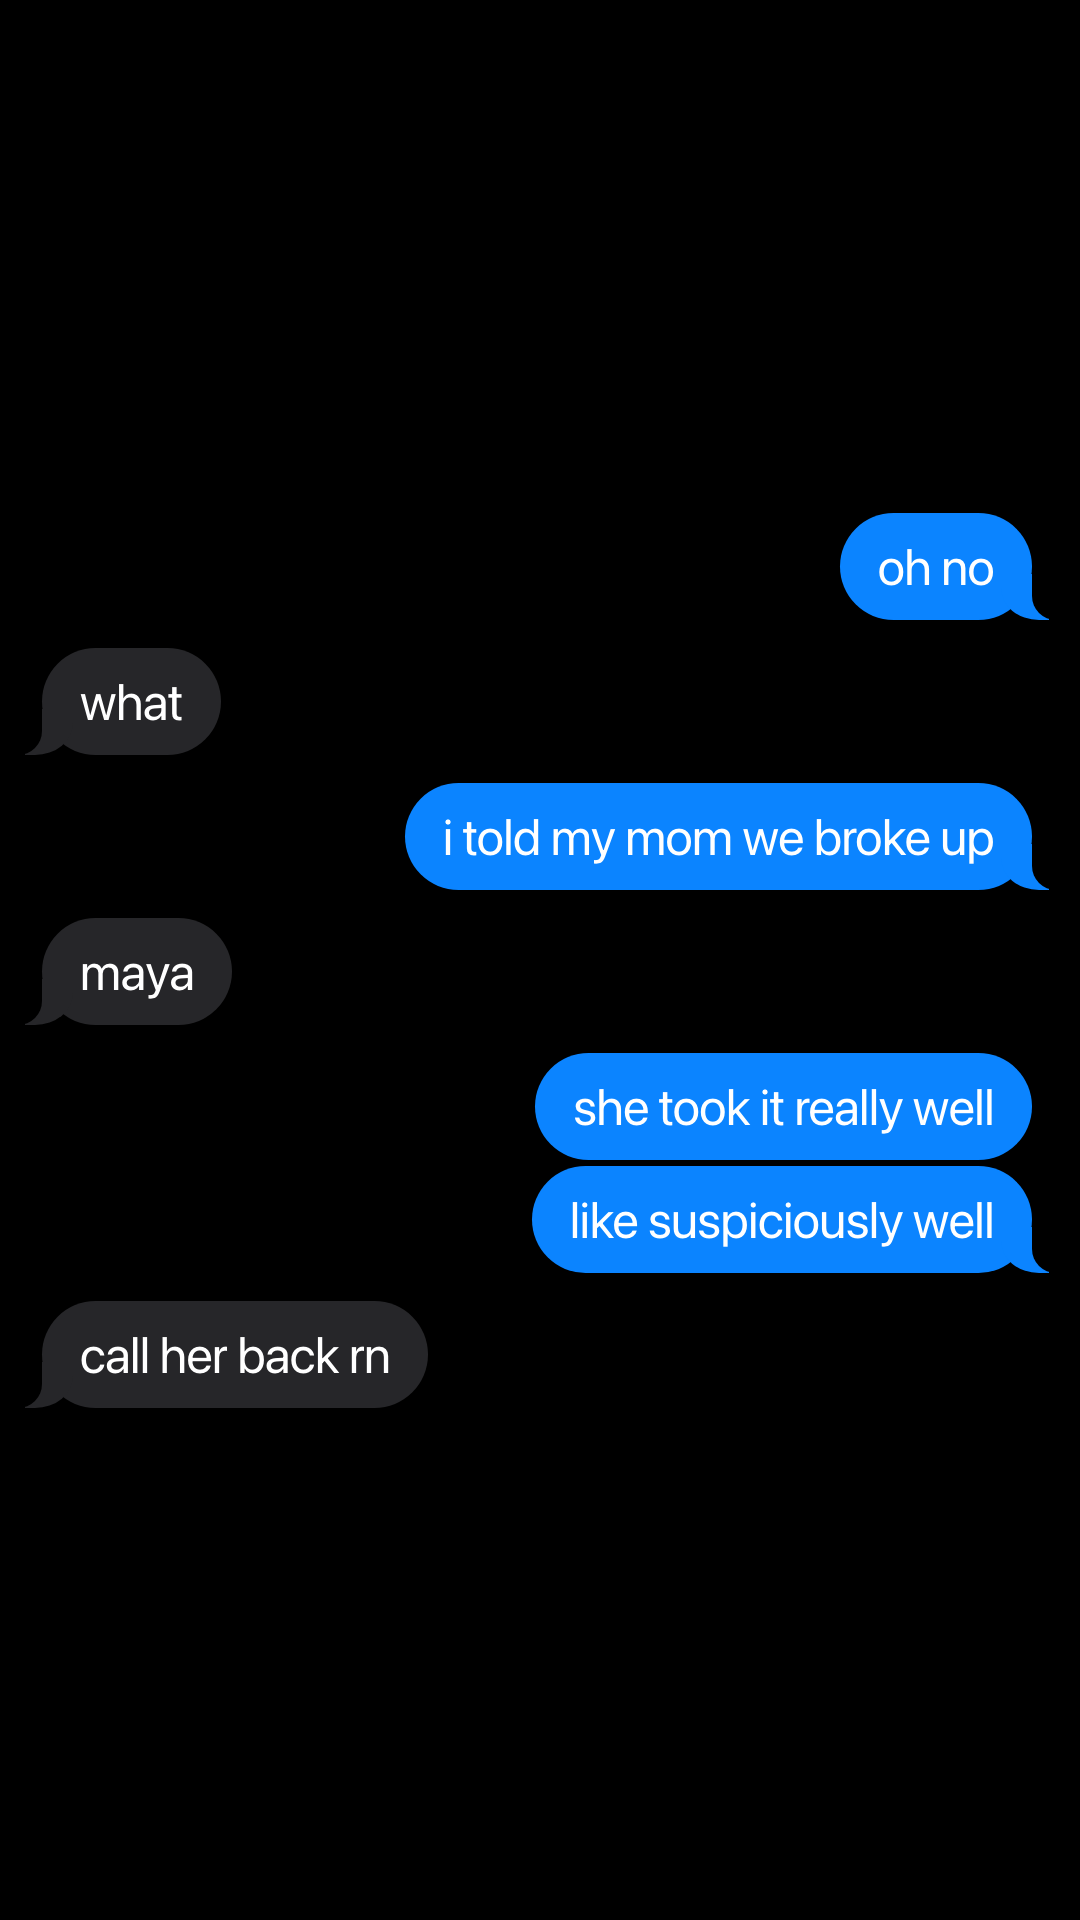
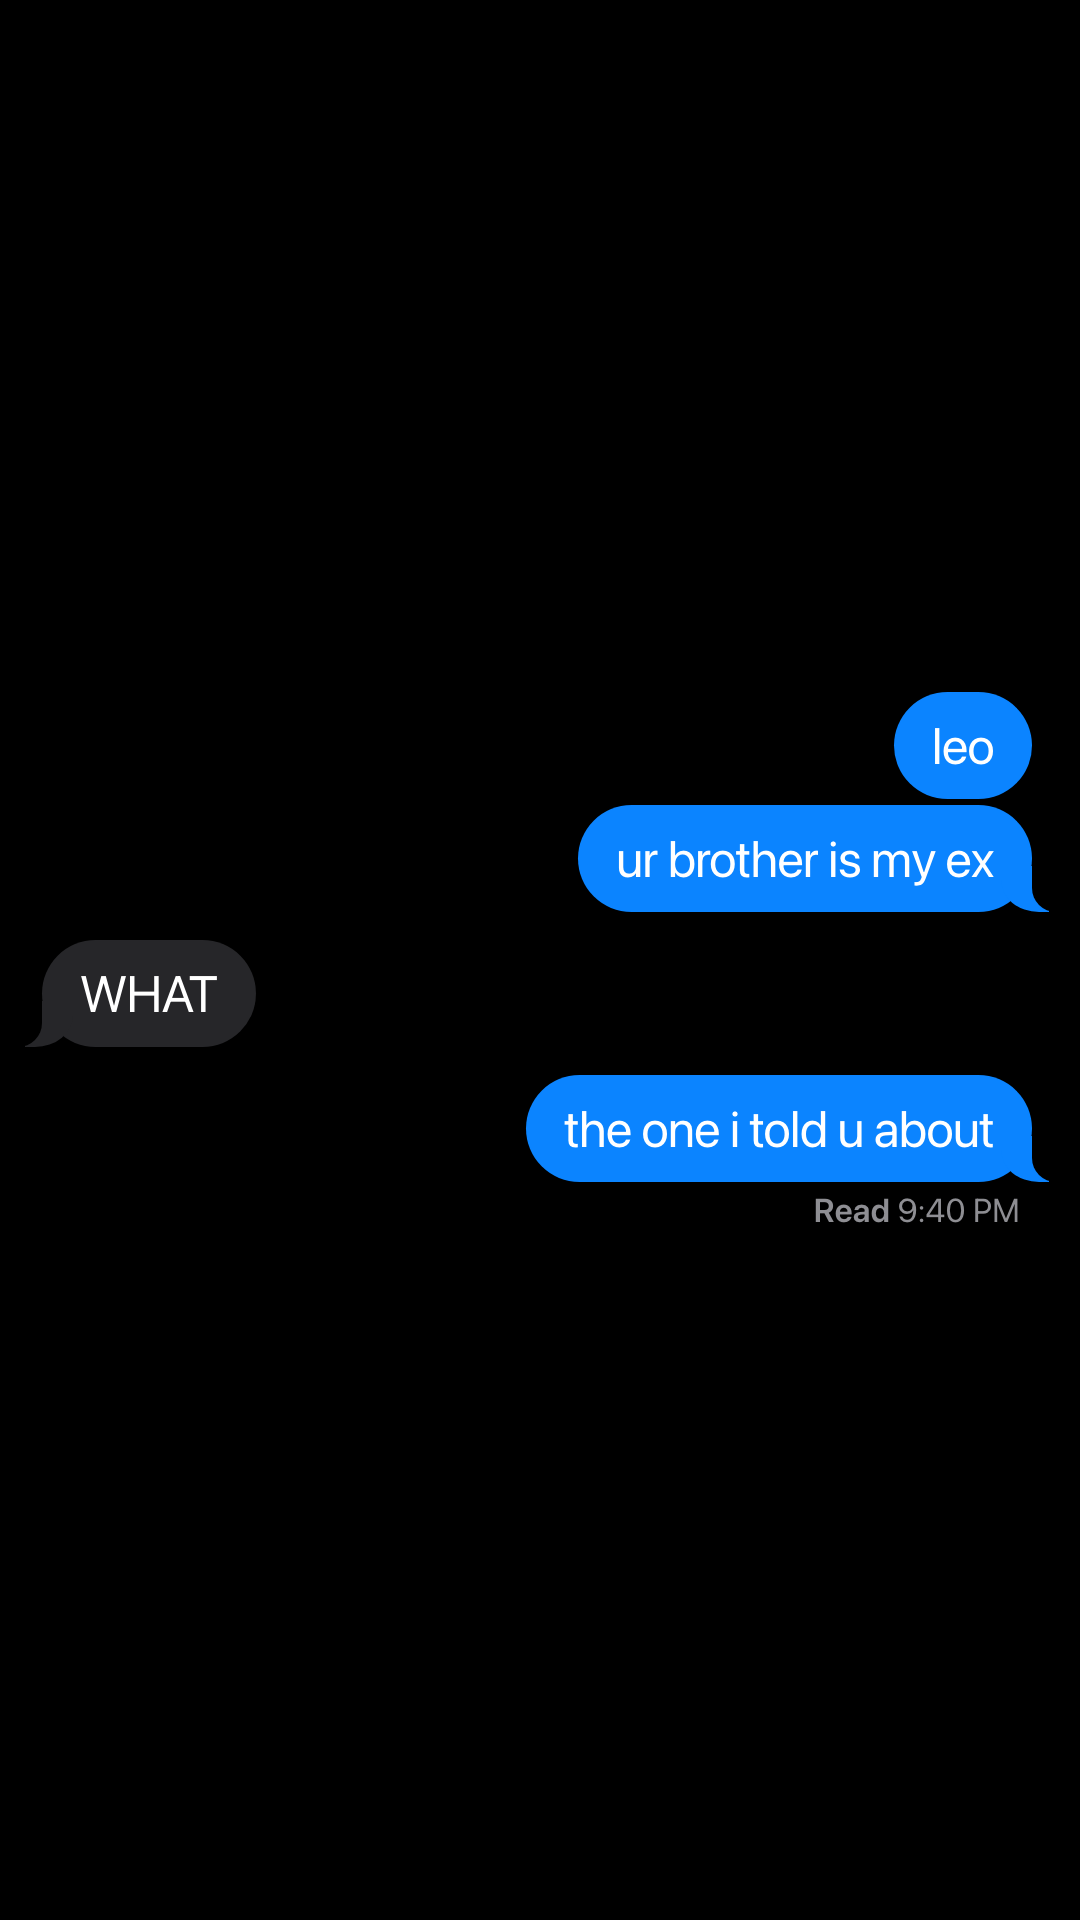
Carousels 631–635: shocking endings for a 19–20 couple

diff --git a/docs/marketing/tiktok-632/SCRIPT.md b/docs/marketing/tiktok-632/SCRIPT.md
@@ -1,34 +1,34 @@
-# 632 · suspiciously well
+# 632 · ur brother is my ex
 
-**For:** rosie first (it suits any account). **Engine:** 149's (1.3M): Maya says the one thing she shouldn't (its top comment was "Why would u even tell him that").
-**Format:** rosie's own: 3 iMessage slides (1080×1920, dark iMessage, no crop, no look), the look of rosie's hits. Post it as a photo carousel: slides 1 and 2, then your gift screenshots, then slide 3, with a trending sound. Maya and Leo, nobody else named. The pink card.
+**For:** rosie first (it suits any account). **Engine:** a reveal that rewrites slide 1, timed for Thanksgiving.
+**Format:** rosie's own: 3 iMessage slides (1080×1920, dark iMessage, no crop, no look), the look of rosie's hits. Post it as a photo carousel: slides 1 and 2, then your gift screenshots, then slide 3, with a trending sound. Maya and Leo (19–20), nobody else named. The pink card.
 **Before posting:** More options → Disclose post content → **Your brand**.
 
 ## The story, slide by slide
 
-1. 8:41 PM. She: "u havent texted me all day" / "like at all". He: "been busy". She: "busy doing what leo" (Read 8:43 PM)
-2. He: "finishing this" / "sorry i went quiet", then the link "for maya 🤍"
-3. She: "oh no". He: "what". She: "i told my mom we broke up". He: "maya". She: "she took it really well" / "like suspiciously well". He: "call her back rn"
+1. 9:14 PM. He: "my mom wants to know if ur coming for thanksgiving". She: "i cant". He: "why not". She: "its complicated" (Read 9:15 PM)
+2. He: "please come" / "i made u this", then the link "for maya 🤍"
+3. She: "leo" / "ur brother is my ex". He: "WHAT". She: "the one i told u about" (Read 9:40 PM)
 
 **Real:** the chat never says what's inside the gift.
 
-## Why it should go
+## Why people will comment
 
-Slide 1 is the fear (he went quiet all day). The twist is Maya's own overreaction, and the detail everyone calls out is the mum who took it "suspiciously well". Two camps: Maya's crazy, and the mum knows something.
+"its complicated" is the hook. "ur brother is my ex" is the shock, and "the one i told u about" makes it worse. The comments write the dinner themselves ("thanksgiving is gonna be CRAZY"). Post it in the weeks before Thanksgiving (26 Nov).
 
 ## Caption (written as a search)
 
-told my mom we broke up… she took it a little too well 😭
+first thanksgiving with my boyfriend… his brother is my ex 😭
 
-#targetaudience #funny #boyfriendtexts #relatable
+#targetaudience #thanksgiving #boyfriendtexts #relationships
 
-**Why this wording:** "told my mom about him" and "we broke up" are TikTok search suggestions (checked 24 Oct).
+**Why this wording:** "first thanksgiving with your boyfriend", "spending thanksgiving with my boyfriend" and "my boyfriends brother" are TikTok search suggestions (checked 24 Oct).
 
 Never the website in the caption, and no 💅.
 
 ## Pinned comment (in character, never a brand)
 
-my mom still hasnt called back
+thanksgiving is in 4 weeks help
 
 ## In the first hour
 

diff --git a/docs/marketing/tiktok-634/SCRIPT.md b/docs/marketing/tiktok-634/SCRIPT.md
@@ -1,34 +1,34 @@
-# 634 · send it to gym bro
+# 634 · she said ur a bad kisser
 
-**For:** rosie first (it suits any account). **Engine:** 192's (279K): this time he's the villain, and the gift is his cover.
-**Format:** rosie's own: 3 iMessage slides (1080×1920, dark iMessage, no crop, no look), the look of rosie's hits. Post it as a photo carousel: slides 1 and 2, then your gift screenshots, then slide 3, with a trending sound. Maya and Leo, nobody else named. The pink card.
+**For:** rosie first (it suits any account). **Engine:** 192's (279K): he's the villain, and it's her best friend.
+**Format:** rosie's own: 3 iMessage slides (1080×1920, dark iMessage, no crop, no look), the look of rosie's hits. Post it as a photo carousel: slides 1 and 2, then your gift screenshots, then slide 3, with a trending sound. Maya and Leo (19–20), nobody else named. The pink card.
 **Before posting:** More options → Disclose post content → **Your brand**.
 
 ## The story, slide by slide
 
-1. 1:07 AM. She: "who is “gym bro”". He: "my gym bro??". She: "why does gym bro call u baby" (Read 1:08 AM)
-2. He: "its not what it looks like" / "i was gonna give u this friday", then the link "for maya 🤍"
-3. She: "its nice" / "send it to gym bro". He: "maya please" / "let me explain"
+1. 1:07 AM. She: "who is “gym bro”". He: "my gym bro??". She: "then why does gym bro have my best friends number" (Read 1:08 AM)
+2. He: "maya" / "its not what u think" / "i was gonna give u this friday", then the link "for maya 🤍"
+3. She: "keep it" / "she told me everything". He: "everything??". She: "she said ur a bad kisser"
 
 **Real:** the chat never says what's inside the gift.
 
-## Why it should go
+## Why people will comment
 
-The fake contact name is a trope everyone knows, so slide 1 lands in one read. "send it to gym bro" is the comeback people quote, and the comments fill with their own contact-name stories.
+The fake contact name is a trope everyone knows. Slide 1 doubles it: gym bro is her best friend. The ending is the savage line people quote.
 
 ## Caption (written as a search)
 
-contact names for him… why is gym bro calling him baby 😭
+my best friend and my boyfriend… he saved her as gym bro 😭
 
-#targetaudience #funny #boyfriendtexts #toxic
+#targetaudience #toxic #boyfriendtexts #bestfriend
 
-**Why this wording:** "contact names for him" and "contact name for boyfriend" are TikTok search suggestions (checked 24 Oct).
+**Why this wording:** "my best friend and my boyfriend" and "contact names for him" are TikTok search suggestions (checked 24 Oct).
 
 Never the website in the caption, and no 💅.
 
 ## Pinned comment (in character, never a brand)
 
-gym bro has been blocked
+i need a new best friend and a new boyfriend
 
 ## In the first hour
 

diff --git a/docs/marketing/tiktok-635/SCRIPT.md b/docs/marketing/tiktok-635/SCRIPT.md
@@ -1,34 +1,34 @@
-# 635 · i was waiting for him to mess up
+# 635 · how else was i gonna get u
 
-**For:** rosie first (it suits any account). **Engine:** 102's (279K): friends to lovers, the friend who always knew.
-**Format:** rosie's own: 3 iMessage slides (1080×1920, dark iMessage, no crop, no look), the look of rosie's hits. Post it as a photo carousel: slides 1 and 2, then your gift screenshots, then slide 3, with a trending sound. Maya and Leo, nobody else named. The pink card.
+**For:** rosie first (it suits any account). **Engine:** Maya the villain, by manipulation: she broke them up to get him.
+**Format:** rosie's own: 3 iMessage slides (1080×1920, dark iMessage, no crop, no look), the look of rosie's hits. Post it as a photo carousel: slides 1 and 2, then your gift screenshots, then slide 3, with a trending sound. Maya and Leo (19–20), nobody else named. The pink card.
 **Before posting:** More options → Disclose post content → **Your brand**.
 
 ## The story, slide by slide
 
-1. 11:48 PM. She: "he broke up with me" / "over text". He: "are u ok". She: "no" (Read 11:49 PM)
-2. He: "ok dont laugh" / "i made this a while ago", then the link "for maya 🤍"
-3. She: "leo" / "how long ago". He: "a year". She: "a YEAR??". He: "i was waiting for him to mess up"
+1. 11:21 PM. He: "my ex just texted me". She: "what did she want". He: "she said ask u what u did"
+2. She: "shes crazy". He: "i know" / "made u something btw", then the link "for maya 🤍"
+3. She: "leo" / "shes not crazy". He: "what did u do". She: "i sent her our texts" / "how else was i gonna get u"
 
 **Real:** the chat never says what's inside the gift.
 
-## Why it should go
+## Why people will comment
 
-Everyone roots for the best friend, and the last line splits the room: sweetest thing ever, or snake behaviour. The ones who root save it.
+Slide 1 is a mystery: what did Maya do? The answer splits the comments. One camp says she's diabolical. The other says he was texting her while he had a girlfriend, so they deserve each other.
 
 ## Caption (written as a search)
 
-my best friend just confessed… he waited a whole year 😭
+my boyfriends ex said to ask me what i did 😭
 
-#targetaudience #friendstolovers #textstory #relationships
+#targetaudience #relationships #textmessage #ex
 
-**Why this wording:** "my best friend just confessed", "best friend confessed" and "friends to lovers" are TikTok search suggestions (checked 24 Oct).
+**Why this wording:** "my boyfriends ex" and "my boyfriends ex gf" are TikTok search suggestions (checked 24 Oct).
 
 Never the website in the caption, and no 💅.
 
 ## Pinned comment (in character, never a brand)
 
-update: its been 4 months 🤍
+no regrets
 
 ## In the first hour
 

diff --git a/docs/marketing/tiktok-633/SCRIPT.md b/docs/marketing/tiktok-633/SCRIPT.md
@@ -1,28 +1,28 @@
-# 633 · tuesday
+# 633 · can u not text me till monday
 
-**For:** rosie first (it suits any account). **Engine:** the cold-reply opener of 192 and 208 ("u said k", "u said u too"), drawn as a 👍 Tapback on "i love u", and a gut-punch ending.
-**Format:** rosie's own: 3 iMessage slides (1080×1920, dark iMessage, no crop, no look), the look of rosie's hits. Post it as a photo carousel: slides 1 and 2, then your gift screenshots, then slide 3, with a trending sound. Maya and Leo, nobody else named. The pink card.
+**For:** rosie first (it suits any account). **Engine:** the cold-reply opener of 192 and 208, drawn as a 👍 Tapback on "i love u", and Maya's double life.
+**Format:** rosie's own: 3 iMessage slides (1080×1920, dark iMessage, no crop, no look), the look of rosie's hits. Post it as a photo carousel: slides 1 and 2, then your gift screenshots, then slide 3, with a trending sound. Maya and Leo (19–20), nobody else named. The pink card.
 **Before posting:** More options → Disclose post content → **Your brand**.
 
 ## The story, slide by slide
 
 1. 10:26 PM. He: "i love u", with her 👍 Tapback on it. He: "a thumbs up" / "really". She: "what do u want me to say" (Read 10:27 PM)
 2. He: "nothing" / "i finished this today", then the link "for maya 🤍"
-3. She: "leo" / "i got back with my ex". He: "when". She: "tuesday" (Read 10:52 PM, and he never replies)
+3. She: "leo" / "my boyfriend from home is visiting this weekend". He: "ur WHAT". She: "can u not text me till monday" (Read 10:52 PM, and he never replies)
 
 **Real:** the chat never says what's inside the gift.
 
-## Why it should go
+## Why people will comment
 
-A 👍 on "i love u" is the coldest reply in iMessage, and everyone gets it at thumbnail size. "when" / "tuesday" is the line people quote: she'd been back with her ex for days while he finished the gift. The Read with no reply is the detail they call out.
+A 👍 on "i love u" is the coldest reply in iMessage. The twist explains it: she has a boyfriend back home. "can u not text me till monday" is the line people quote back at her.
 
 ## Caption (written as a search)
 
-said i love you and got a thumbs up 😭
+said i love you, got a thumbs up… now we know why 😭
 
-#targetaudience #relationships #textmessage #breakup
+#targetaudience #relationships #textmessage #college
 
-**Why this wording:** "i love you thumbs up" is a TikTok search suggestion (checked 24 Oct).
+**Why this wording:** "i love you thumbs up" and "having a college boyfriend" are TikTok search suggestions (checked 24 Oct).
 
 Never the website in the caption, and no 💅.
 

diff --git a/docs/marketing/tiktok-631/SCRIPT.md b/docs/marketing/tiktok-631/SCRIPT.md
@@ -1,20 +1,20 @@
-# 631 · its my birthday
+# 631 · happy birthday i guess
 
 **For:** rosie first (it suits any account). **Engine:** 208's (474K and climbing again): Maya is cold to a boy who made her something, and the twist makes everyone yell at her.
-**Format:** rosie's own: 3 iMessage slides (1080×1920, dark iMessage, no crop, no look), the look of rosie's hits. Post it as a photo carousel: slides 1 and 2, then your gift screenshots, then slide 3, with a trending sound. Maya and Leo, nobody else named. The pink card.
+**Format:** rosie's own: 3 iMessage slides (1080×1920, dark iMessage, no crop, no look), the look of rosie's hits. Post it as a photo carousel: slides 1 and 2, then your gift screenshots, then slide 3, with a trending sound. Maya and Leo (19–20), nobody else named. The pink card.
 **Before posting:** More options → Disclose post content → **Your brand**.
 
 ## The story, slide by slide
 
 1. 6:12 PM. He: "u didnt reply to my good morning". She: "i was asleep". He: "its 6pm maya". She: "and??" (Read 6:12 PM)
 2. He: "ok" / "i made u this anyway", then the link "for maya 🤍"
-3. She: "omg" / "whats this for". He: "nothing" / "its my birthday" / "just wanted u to have something today too"
+3. She: "omg" / "whats this for". He: "nothing" / "its my birthday" / "just wanted u to have something today too". She: "aw" / "happy birthday i guess" (Read 6:31 PM)
 
 **Real:** the chat never says what's inside the gift.
 
-## Why it should go
+## Why people will comment
 
-"and??" makes Maya the villain on slide 1, so people start typing "maya" before they swipe. The last slide turns it: he made her a gift on his own birthday, and she forgot it. 208's comments are all people yelling at Maya by name ("maya pass the FUCKING controller", 14.5K likes); this gives them the same reason.
+"and??" makes Maya the villain on slide 1. Then he made her a gift on his own birthday, which she forgot, and she answers "happy birthday i guess". 208's comments are people yelling at Maya by name; this gives them more to yell about.
 
 ## Caption (written as a search)
 
@@ -22,7 +22,7 @@ she forgot his birthday… and he still made her this 😭
 
 #targetaudience #relationships #boyfriendtexts #bf
 
-**Why this wording:** "she forgot his birthday" and "forgot his birthday" are TikTok search suggestions (checked 24 Oct).
+**Why this wording:** "she forgot his birthday" and "i forgot his birthday" are TikTok search suggestions (checked 24 Oct).
 
 Never the website in the caption, and no 💅.
 

diff --git a/docs/marketing/VIRAL-FORMULA.md b/docs/marketing/VIRAL-FORMULA.md
@@ -2946,16 +2946,16 @@ Read from the public post list on 24 Oct: 52 posts, 326 followers, 446.6K likes,
 - **Every hit has tension on slide 1:** someone is cold, or he pretends he forgot. The sweet ones open sweet, so nothing is at stake.
 - **The "evening only" rule above was wrong.** The post ids show 30 went up at 11:14 UTC, 102 at 11:24 and 39 at 12:30.
 
-So 631 to 635 go back to the engines that made the hits, written as new stories:
+So 631 to 635 go back to the engines that made the hits. The owner then asked for "shocking so people comment", so every ending is a shock:
 
-| | Engine | Slide 1 | The twist |
+| | Engine | Slide 1 | The shock |
 |---|---|---|---|
-| 631 | 208, Maya the villain | "its 6pm maya" / "and??" | "its my birthday" / "just wanted u to have something today too" |
-| 632 | 149, what she shouldn't say | "busy doing what leo" | "i told my mom we broke up" / "she took it really well" / "like suspiciously well" |
-| 633 | cold reply, gut punch | her 👍 on "i love u" | "i got back with my ex" / "when" / "tuesday" |
-| 634 | 192, he's the villain | "why does gym bro call u baby" | "send it to gym bro" |
-| 635 | 102, friends to lovers | "he broke up with me" / "over text" | "a year" / "i was waiting for him to mess up" |
+| 631 | 208, Maya the villain | "its 6pm maya" / "and??" | "its my birthday" … "happy birthday i guess" |
+| 632 | a reveal, for Thanksgiving | "its complicated" | "ur brother is my ex" / "the one i told u about" |
+| 633 | cold reply, double life | her 👍 on "i love u" | "my boyfriend from home is visiting this weekend" / "can u not text me till monday" |
+| 634 | 192, he's the villain | "then why does gym bro have my best friends number" | "she said ur a bad kisser" |
+| 635 | Maya the villain, by manipulation | "she said ask u what u did" | "i sent her our texts" / "how else was i gonna get u" |
 
-**Post order:** 631, 633, 634, 632, 635, one a day. Pin 208, 149 and 30 to the profile.
+**Post order:** 633, 631, 634, 635, 632 (632 lands closer to Thanksgiving), one a day. Pin 208, 149 and 30 to the profile.
 
 **Maya and Leo are 19–20.** The owner sent back 633's first ending ("i signed a lease today" / "for one"): "they are like 19 20 years old no leases no nothing like that". So their world is classes, dorms or their parents' place, part-time jobs, parties, exes, mums and friends. Never leases, moving in, mortgages, weddings, babies or careers.
